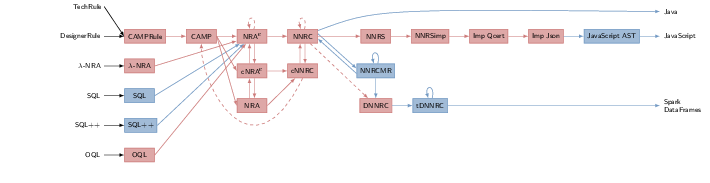
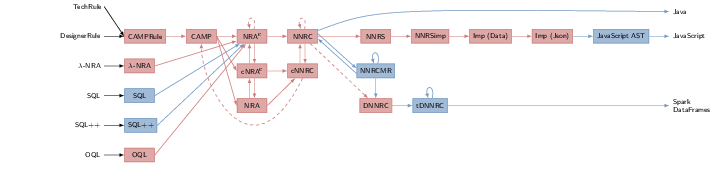
Various fixes

diff --git a/documentation/figure/compiler-coq.tex b/documentation/figure/compiler-coq.tex
@@ -74,7 +74,7 @@
        right=of nnrsimp]
       (impdata) {Imp (Data)};
  \node[lang, coqp, hyperlink node=\coqurl{Imp.Lang}{ImpEJson}{imp_ejson},
-       right=of impqcert]
+       right=of impdata]
       (impjson) {Imp (Json)};
 
  % NNRCMR
@@ -183,7 +183,7 @@
  \path[trans, tcoqp] (nnrs) -- (nnrsimp)
    \transref{3}{\coqurl{Translation.Lang}{NNRStoNNRSimp}{nnrs_to_nnrs_imp_top}};
  \path[trans, tcoqp] (nnrsimp) -- (impdata)
-   \transref{6}{\coqurl{Translation.Lang}{NNRSimptoImpQcert}{nnrs_imp_to_imp_data_top}};
+   \transref{6}{\coqurl{Translation.Lang}{NNRSimptoImpData}{nnrs_imp_to_imp_data_top}};
  \path[trans, tcoqp] (impdata) -- (impjson)
    \transref{6}{\coqurl{Translation.Lang}{ImpDatatoImpEJson}{imp_data_to_imp_ejson_top}};
  \path[trans, tcoqc] (impjson) -- (ajs)
